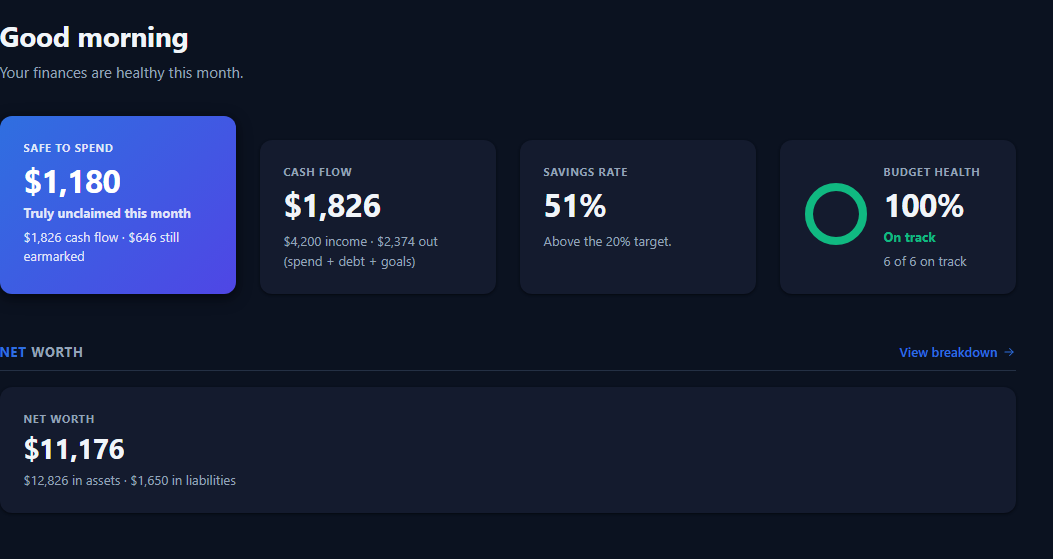
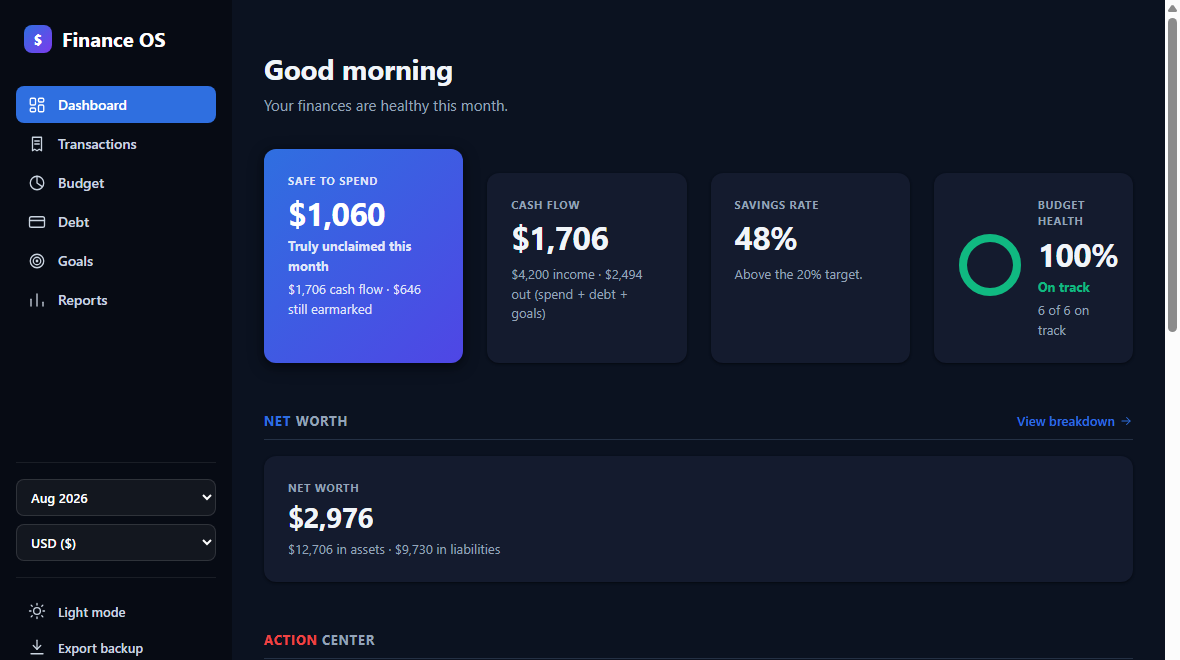
Fix: screenshots were missing the sidebar, looked like fragments
User feedback with a reference listing: "hiçbir mockupta left menu
yok" (none of the mockups have the left menu) - the previous crop
regions deliberately excluded the sidebar to focus on content,
which instead made every screenshot read as an anonymous content
fragment rather than a real, complete application - the opposite of
the reference listing's own mockup, which shows the full tool
edge-to-edge inside the device frame.

Recaptured all 4 screenshots (hero, action-center, debt, review)
from the real running app at a consistent region that includes the
full sidebar - branding, all 6 nav items with labels, month/currency
selectors, theme toggle - alongside the main content, instead of
cropping it out. Also fixed a real Next.js image-optimizer caching
gotcha hit while verifying this: replacing a public/ image file
under the same filename does NOT bust Next's on-disk optimized-image
cache (.next/cache/images) - the old cropped screenshots kept
rendering after rebuild + restart until that cache directory was
manually cleared. Worth knowing for any future screenshot swap on
this project.

Updated width/height props on every LaptopMockup call site to match
the new screenshots' actual captured dimensions (1180x660 for three
of them, 1455x814 for the Action Center one - same aspect ratio,
different capture resolution) so Next/Image's intrinsic ratio stays
accurate instead of silently reusing the old 1053x559 values.
[…]

diff --git a/app/[locale]/urunler/finance-os/page.tsx b/app/[locale]/urunler/finance-os/page.tsx
@@ -28,6 +28,7 @@ const rows = [
     body: "Action Center, ayın en önemli 3 şeyini önceliğine göre sıralar — bütçeyi aşan bir kategori, borcu aylar önce kapatacak ekstra bir ödeme, ya da sadece iyi gittiğinin onayı. Rozet yok, oyunlaştırma yok — sadece net bir sonraki adım.",
     points: ["Otomatik önceliklendirme", "Rakamları yorumlar, sadece göstermez"],
     img: "/products/finance-os/mockup-action-center.png",
+    imgW: 1455, imgH: 814,
   },
   {
     eyebrow: "BORÇ ÖDEME PLANI",
@@ -35,6 +36,7 @@ const rows = [
     body: "Snowball veya Avalanche stratejisiyle otomatik ödeme sırası, gerçek APR'a dayalı tahmini borçtan kurtulma tarihi, kredi kartı limit kullanımı — hepsi otomatik hesaplanır. Elle takip yok, tahmin yok.",
     points: ["Gerçek APR bileşik faiz hesabı", "Birden fazla borç, otomatik sıralama"],
     img: "/products/finance-os/mockup-debt.png",
+    imgW: 1180, imgH: 660,
   },
   {
     eyebrow: "AYLIK DEĞERLENDİRME",
@@ -42,6 +44,7 @@ const rows = [
     body: "Aylık Değerlendirme, o ay gerçekten ne olduğunu anlatır — harcama plana uydu mu, borç azaldı mı, hedefler ilerledi mi. Hiçbir rakip üründe bu yok; sadece sayı göstermek yerine, o sayının ne anlama geldiğini söyler.",
     points: ["\"Bu ay tek bir şey yapacaksan\" önerisi", "Gelecek ay için somut hedef"],
     img: "/products/finance-os/mockup-review.png",
+    imgW: 1180, imgH: 660,
   },
 ];
 
@@ -115,7 +118,7 @@ export default function FinanceOSPage({ params: { locale } }: Props) {
           </div>
 
           <div className="max-w-4xl mx-auto">
-            <LaptopMockup src="/products/finance-os/mockup-hero.png" alt="Finance OS Dashboard - Safe to Spend, Cash Flow, Net Worth" width={1053} height={559} priority />
+            <LaptopMockup src="/products/finance-os/mockup-hero.png" alt="Finance OS Dashboard - Safe to Spend, Cash Flow, Net Worth" width={1180} height={660} priority />
           </div>
         </div>
       </section>
@@ -126,7 +129,7 @@ export default function FinanceOSPage({ params: { locale } }: Props) {
           {rows.map((row, i) => (
             <div key={row.title} className="grid lg:grid-cols-2 gap-12 items-center">
               <div className={i % 2 === 1 ? "lg:order-2" : ""}>
-                <LaptopMockup src={row.img} alt={row.title} width={1053} height={559} />
+                <LaptopMockup src={row.img} alt={row.title} width={row.imgW} height={row.imgH} />
               </div>
               <div className={i % 2 === 1 ? "lg:order-1" : ""}>
                 <span className="text-accent-400 text-sm font-semibold tracking-wide">{row.eyebrow}</span>

diff --git a/app/[locale]/products/finance-os/page.tsx b/app/[locale]/products/finance-os/page.tsx
@@ -28,6 +28,7 @@ const rows = [
     body: "The Action Center ranks the month's top 3 things by priority - a category running over budget, an extra payment that clears a debt months sooner, or just confirmation you're on pace. No badges, no streaks - just a clear next step.",
     points: ["Automatic prioritization", "Interprets the numbers, doesn't just display them"],
     img: "/products/finance-os/mockup-action-center.png",
+    imgW: 1455, imgH: 814,
   },
   {
     eyebrow: "DEBT PAYOFF PLAN",
@@ -35,6 +36,7 @@ const rows = [
     body: "Automatic Snowball or Avalanche payoff order, a real APR-based debt-free date estimate, and credit-limit utilization tracking - all calculated automatically. No manual tracking, no guessing.",
     points: ["Real compound-interest APR math", "Multiple debts, ranked automatically"],
     img: "/products/finance-os/mockup-debt.png",
+    imgW: 1180, imgH: 660,
   },
   {
     eyebrow: "MONTHLY REVIEW",
@@ -42,6 +44,7 @@ const rows = [
     body: "The Monthly Review explains what happened that month - did spending stay on plan, did debt go down, did goals move forward. No competitor product does this - it doesn't just show a number, it tells you what it means.",
     points: ["\"If you only do one thing\" recommendation", "A concrete target for next month"],
     img: "/products/finance-os/mockup-review.png",
+    imgW: 1180, imgH: 660,
   },
 ];
 
@@ -115,7 +118,7 @@ export default function FinanceOSPage({ params: { locale } }: Props) {
           </div>
 
           <div className="max-w-4xl mx-auto">
-            <LaptopMockup src="/products/finance-os/mockup-hero.png" alt="Finance OS Dashboard - Safe to Spend, Cash Flow, Net Worth" width={1053} height={559} priority />
+            <LaptopMockup src="/products/finance-os/mockup-hero.png" alt="Finance OS Dashboard - Safe to Spend, Cash Flow, Net Worth" width={1180} height={660} priority />
           </div>
         </div>
       </section>
@@ -126,7 +129,7 @@ export default function FinanceOSPage({ params: { locale } }: Props) {
           {rows.map((row, i) => (
             <div key={row.title} className="grid lg:grid-cols-2 gap-12 items-center">
               <div className={i % 2 === 1 ? "lg:order-2" : ""}>
-                <LaptopMockup src={row.img} alt={row.title} width={1053} height={559} />
+                <LaptopMockup src={row.img} alt={row.title} width={row.imgW} height={row.imgH} />
               </div>
               <div className={i % 2 === 1 ? "lg:order-1" : ""}>
                 <span className="text-accent-400 text-sm font-semibold tracking-wide">{row.eyebrow}</span>

diff --git a/app/[locale]/products/page.tsx b/app/[locale]/products/page.tsx
@@ -66,7 +66,7 @@ export default function ProductsPage({ params: { locale } }: Props) {
                 </span>
               </div>
               <div className="pointer-events-none">
-                <LaptopMockup src="/products/finance-os/mockup-hero.png" alt="Finance OS Dashboard" width={1053} height={559} />
+                <LaptopMockup src="/products/finance-os/mockup-hero.png" alt="Finance OS Dashboard" width={1180} height={660} />
               </div>
             </div>
           </Link>

diff --git a/app/[locale]/urunler/page.tsx b/app/[locale]/urunler/page.tsx
@@ -66,7 +66,7 @@ export default function ProductsPage({ params: { locale } }: Props) {
                 </span>
               </div>
               <div className="pointer-events-none">
-                <LaptopMockup src="/products/finance-os/mockup-hero.png" alt="Finance OS Dashboard" width={1053} height={559} />
+                <LaptopMockup src="/products/finance-os/mockup-hero.png" alt="Finance OS Dashboard" width={1180} height={660} />
               </div>
             </div>
           </Link>
